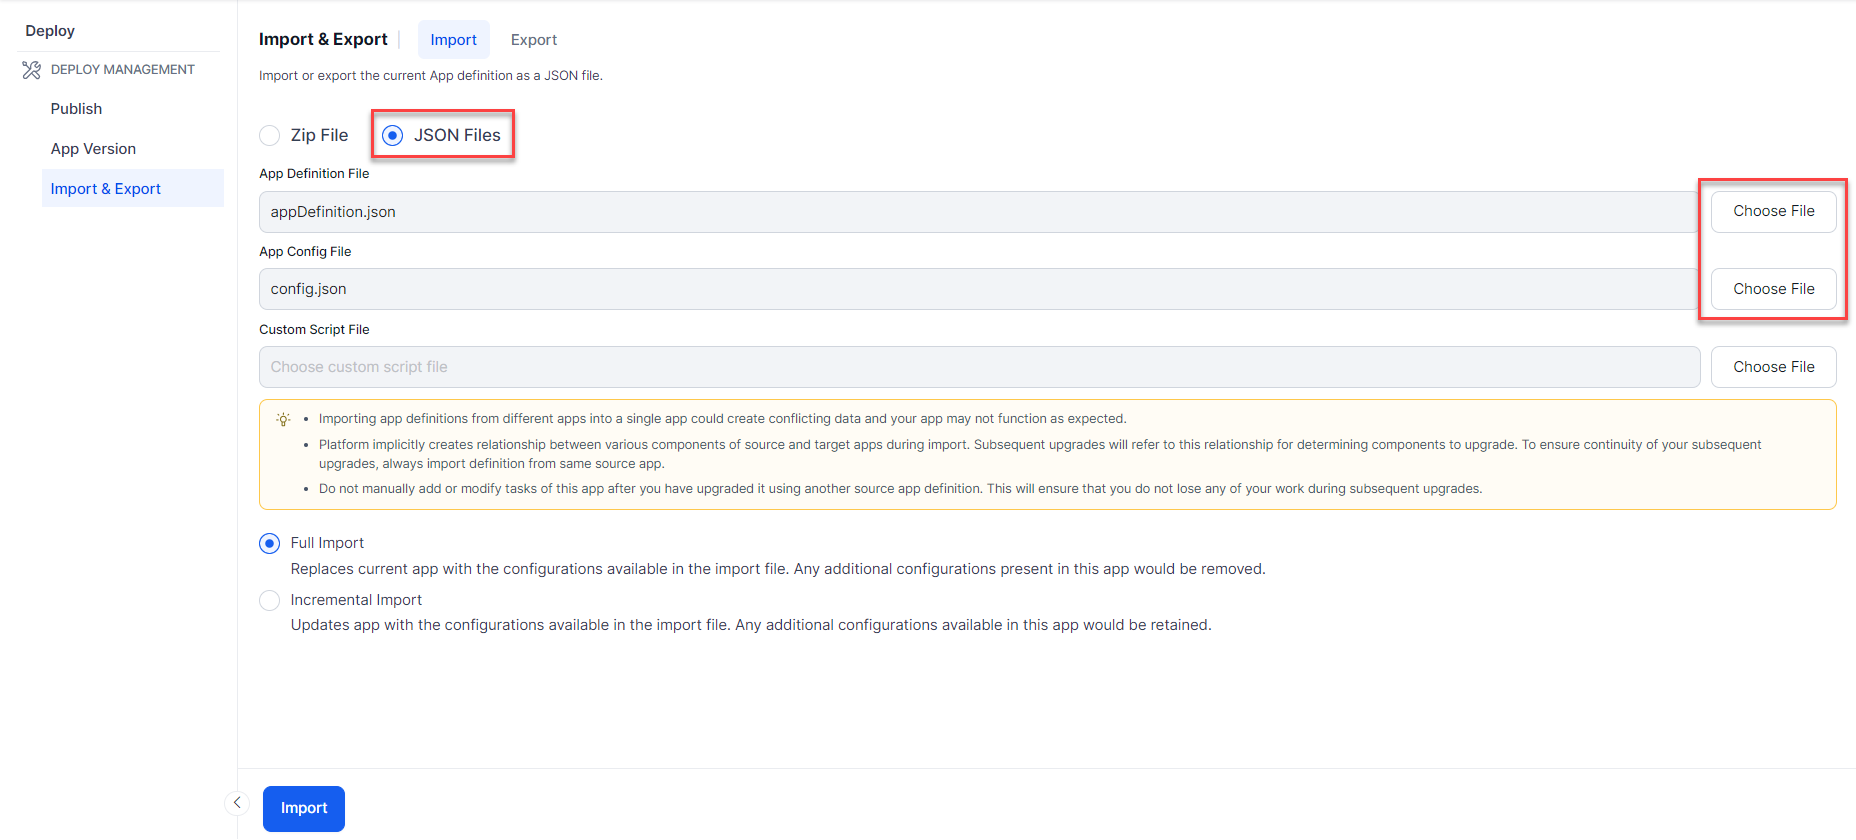
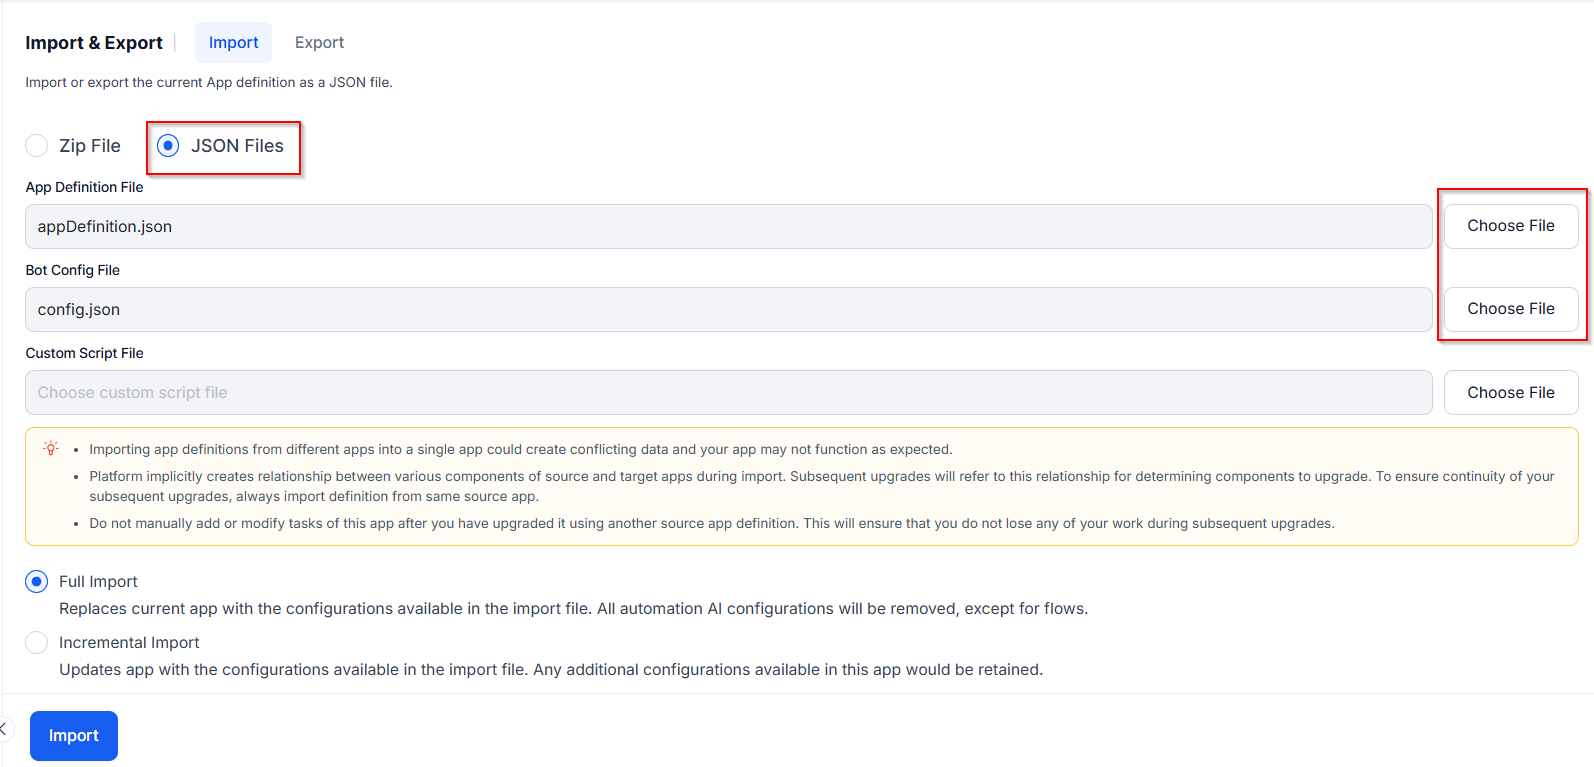
import ai agent changes

diff --git a/docs/xo/app-settings/language-management/building-multi-language-bots.md b/docs/xo/app-settings/language-management/building-multi-language-bots.md
@@ -10,9 +10,9 @@ This article takes you through the general context within which multilingual AI 
 If you want to build a Multilingual AI Agent, there are a few points to keep in mind:
 
   1. There is a set of basic building blocks to a multilingual AI Agent: the language in which it talks to users, the language in which you train it, and the process through which it detects and selects which languages to use. Please continue reading this article to learn more.
-  2. You can create a new AI Agent or add new languages to an existing one. Read more about managing languages [here](managing-languages-for-multilingual-vas.md){:target="_blank"}.
-  3. Multilingual AI Agents have language-specific components and some features exhibit different behaviors compared to single language assistants. Read more about this [here](multilingual-vas-components-feature-support.md){:target="_blank"}.
-  4. Translation can be automated using pre-built translation services from providers such as Microsoft or Google; or custom services, including any that you may build in-house. Read [here](managing-translation-services.md){:target="_blank"} to learn more.
+  2. You can create a new AI Agent or add new languages to an existing one. Read more about managing languages [here](managing-languages-for-multilingual-vas.md).
+  3. Multilingual AI Agents have language-specific components and some features exhibit different behaviors compared to single language assistants. Read more about this [here](multilingual-vas-components-feature-support.md).
+  4. Translation can be automated using pre-built translation services from providers such as Microsoft or Google; or custom services, including any that you may build in-house. Read [here](managing-translation-services.md) to learn more.
 
 
 ## The Conversation (AI Agent) Language
@@ -21,7 +21,7 @@ Enabling a language requires you to train the model to understand the user’s i
 
 Conversation Language is the one that users use to interact with the assistant. You can choose any of the over 100 languages as the Conversation Language. You can define the responses (prompts, messages. etc.,) in the Conversation Language. 
 
-You can also use the automatic response translation feature when you or your team does not have expertise in the user’s language. You can write the responses in your preferred language and the platform will automatically translate them to the user’s language during the conversation. 
+You can also use the automatic response translation feature when you or your team doesn't have expertise in the user’s language. You can write the responses in your preferred language and the platform will automatically translate them to the user’s language during the conversation. 
 
 
 ### Supported AI Agent Languages

diff --git a/docs/xo/deploy/bot-management.md b/docs/xo/deploy/bot-management.md
@@ -17,7 +17,15 @@ This feature is particularly helpful to test various versions of your agent at d
 
 You can import tasks and configurations of a specific agent into a new or existing agent using one of these import types:
 
-* **Full import**: Replaces the existing agent with the imported configurations. The system deletes any additional configurations in the target agent that aren't present in the import definition. The system retains the webhook channel even if it's not present in the import agent definition.
+* **Full import**: During a full import, the existing agent components and configurations in Automation AI are replaced with those from the imported file. Any configurations in the target agent that aren't included in the imported file are removed.
+
+For the Contact Center AI, only conditional flows are added from the imported file. Other Contact Center–related configurations aren't included in the import process and remain unchanged in the target application.
+
+However, certain flows are handled differently during a full import:
+
+* **Start and exit flows (Automation AI)**: These flows from the source agent or application are imported into the target agent. If a flow with the same name already exists in the target agent, it's replaced by the source flow. Any additional start or exit flows that exist only in the target agent and aren't present in the source are retained.
+
+* **Conditional flows (Contact Center AI)**: Conditional flows from the source agent or application are imported into the target agent. If a flow with the same name already exists in the target agent, it's replaced by the source flow. Conditional flows that exist only in the target agent and aren't present in the source are retained.
 
     !!! note
 

diff --git a/docs/xo/apis/automation/enable-and-manage-sso-configuration.md b/docs/xo/apis/automation/enable-and-manage-sso-configuration.md
@@ -98,8 +98,6 @@ curl --location --request GET \
 
 #### Response Parameters
 
-In this case, the API provides the following meta of the configurations.
-
 | **PARAMETER** | **DATA TYPE** | **DESCRIPTION** |
 |---|---|---|
 | `ACS IDP URL` | String | ACS URL for IDP Initiated SAML Flow. |
@@ -133,8 +131,6 @@ In this case, the API provides the following meta of the configurations.
 
 ### Sample Response (If SSO is Disabled)
 
-In this case, the API provides the following meta required to enable the app at the identity provider application.
-
 ```json
 {
     "ACS_IDP_URL": "https://sit-xx.xxxx.ai/api/sso/login/callback?c=e-92d9c14543721ecc925c33986d6e012d0efc2ab1309684d5ebaacf79b2xxxxx&redirect_url=https%3A%2F%2Fsit-xo.kore.ai%2Fbuilder%2F%3Fquery%3D1",
@@ -165,7 +161,7 @@ This API enables the SSO configuration for an account.
 | **PARAMETER** | **DESCRIPTION** | **REQUIRED/OPTIONAL** |
 |---|---|---|
 | host | The environment URL. For example, https://platform.kore.ai | Required |
-| BotId | The *Bot ID* or *Stream ID*. You can access it by navigating to **App Settings** → **App Profile** in the app builder. | Required |
+| BotId | The *Bot ID* or *Stream ID*. You can access it by navigating to **App Settings** → **App Profile** in the App Builder. | Required |
 
 ### Sample Request
 
@@ -229,7 +225,7 @@ curl --location 'https://{{host}}/api/public/ssoconfig' \
 
 ### Sample Response
 
-```bash
+```json
 {
     "method": "saml",
     "name": "john.doe@example.com",
